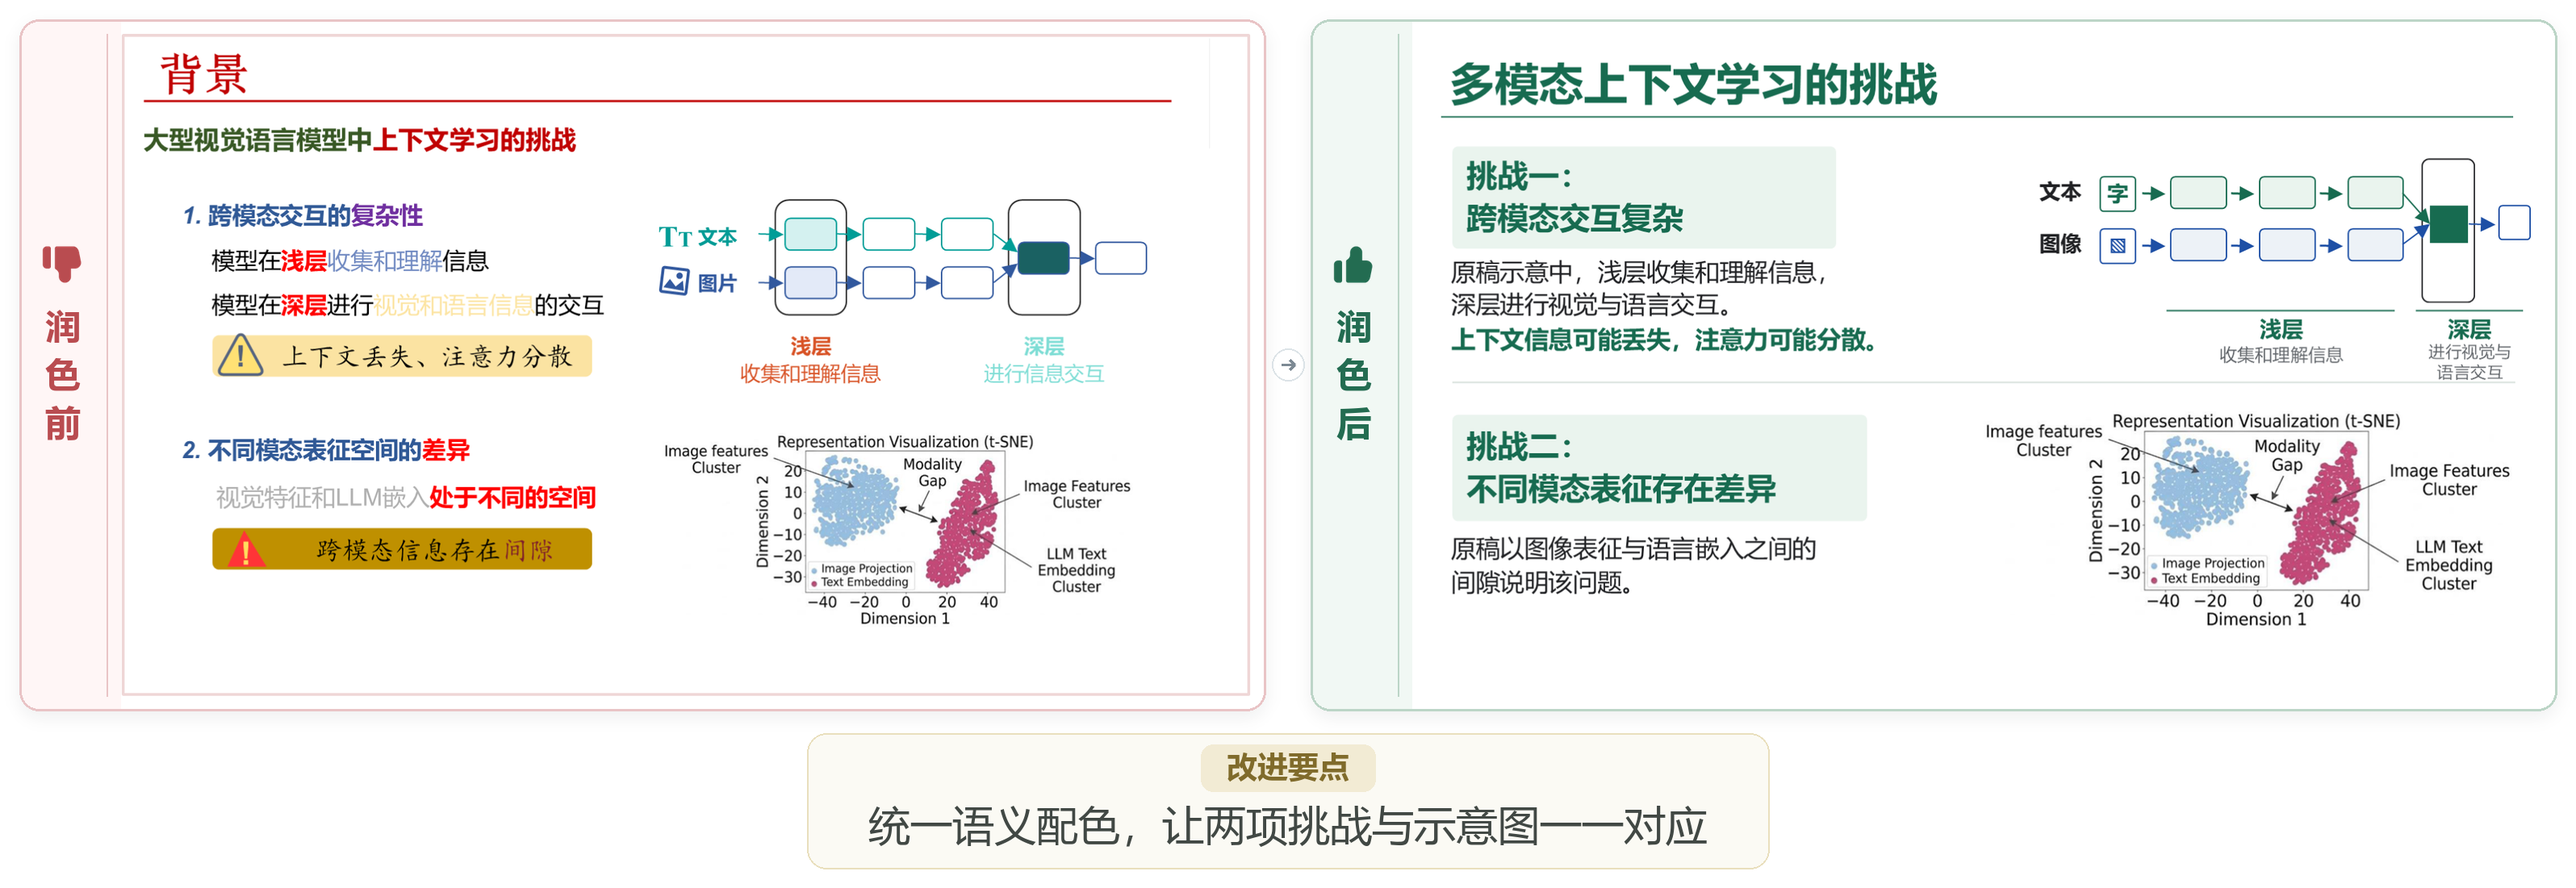
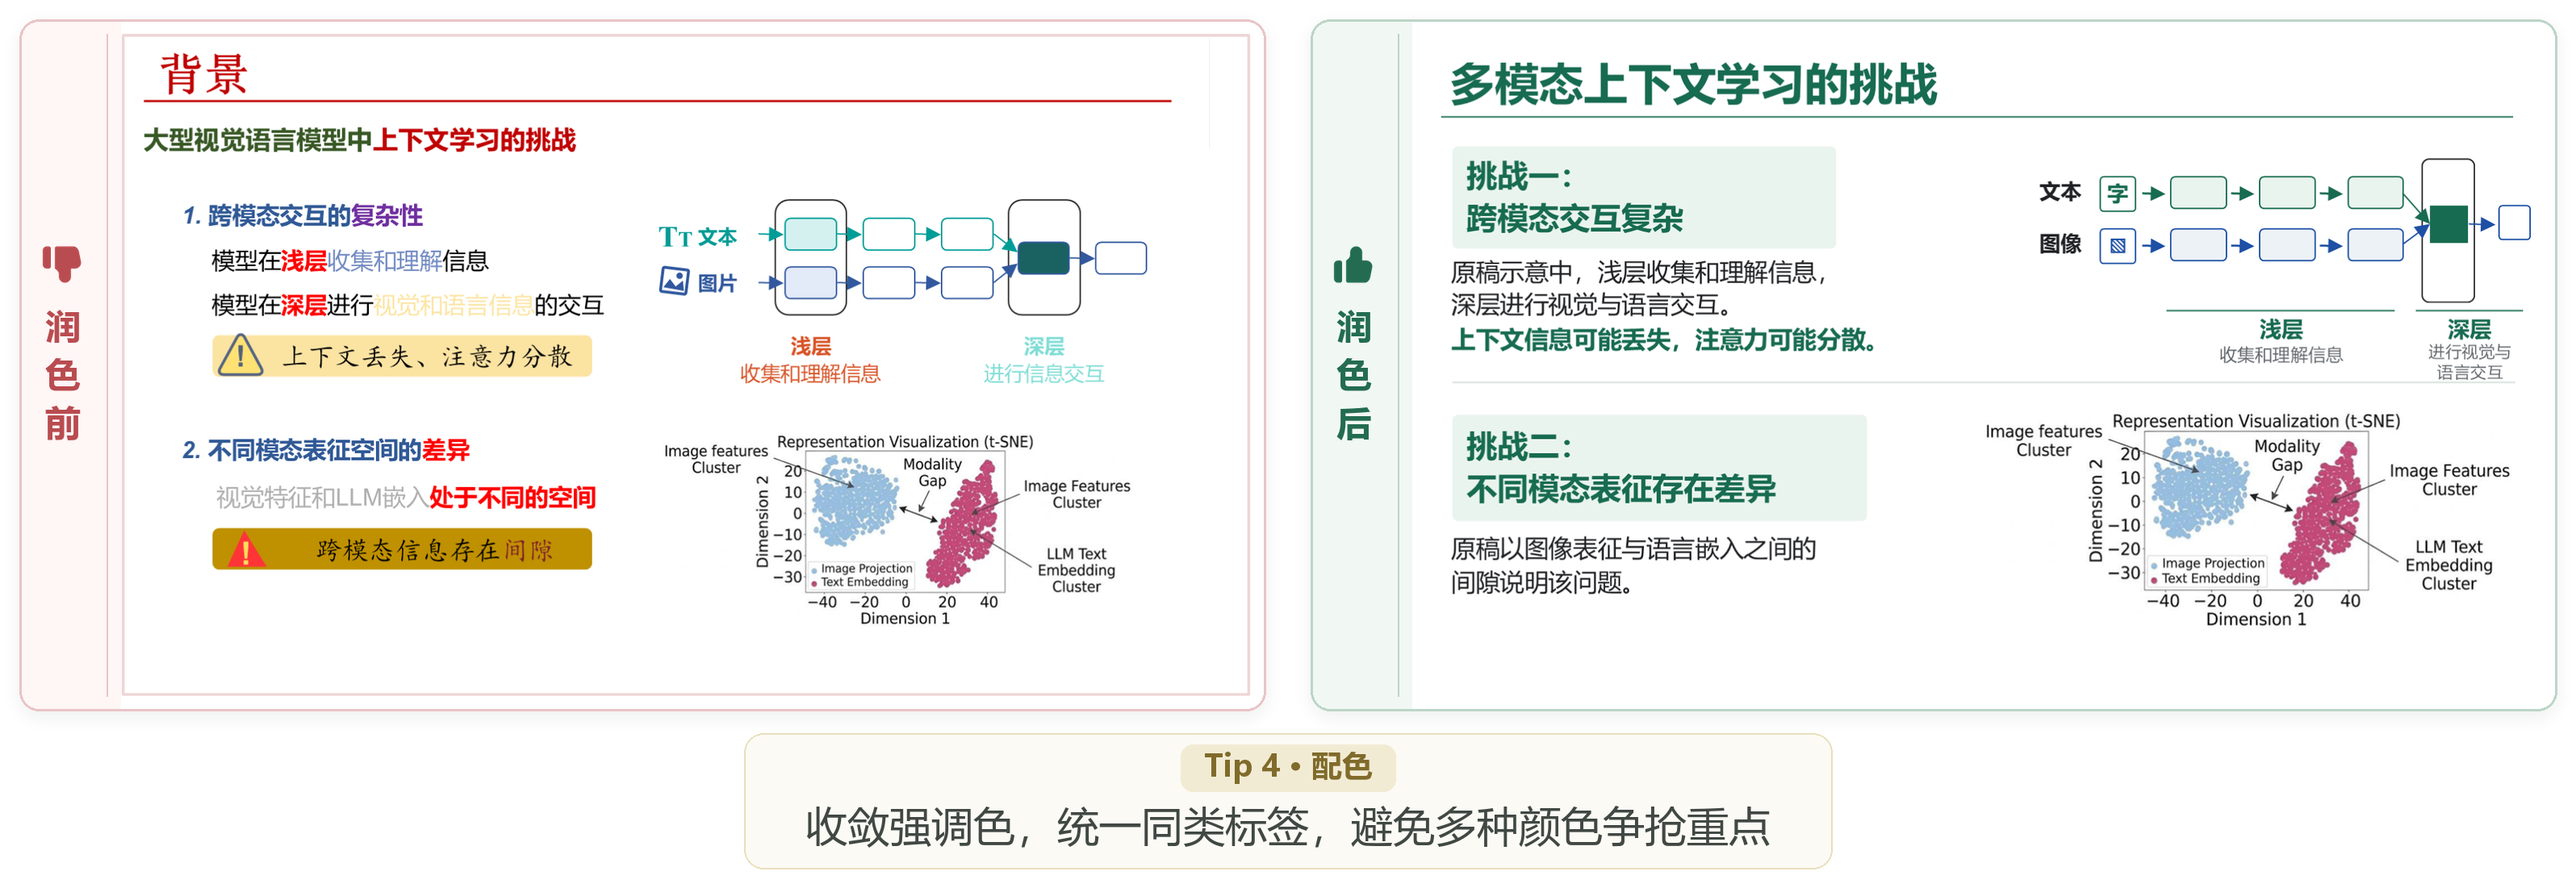
docs: align comparison captions with presentation tips

Changed region(s): [[0.3102, 0.8338, 0.6823, 0.9573]]

diff --git a/README.md b/README.md
@@ -464,22 +464,22 @@
 
 > Ppt Master 请检查并润色反例_v1.pptx。先根据 12 条汇报建议指出缺陷，供确认；再设计参考图，确认后制作组件可编辑的 PPTX。
 
-原稿 11 页，润色稿 20 页（含 5 页备份）。下图左侧为原稿，右侧为对应的润色页，均来自这两份 PPTX 的实际渲染；点击图片可放大。
+原稿 11 页，润色稿 20 页。下图左侧为原稿，右侧为对应的润色页。
 
 [![原第 1 页与润色后第 1 页：用输入输出案例组织任务定义](docs/images/fanli-01-before-after.png)](docs/images/fanli-01-before-after.png)
 
-[![原第 4 页与润色后第 7 页：整理多模态学习挑战与配色层级](docs/images/fanli-04-before-after.png)](docs/images/fanli-04-before-after.png)
+[![原第 4 页与润色后第 7 页：Tip 4，收敛强调色并统一同类标签](docs/images/fanli-04-before-after.png)](docs/images/fanli-04-before-after.png)
 
-[![原第 5 页与润色后第 6 页：用图文问答案例串起上下文学习](docs/images/fanli-05-before-after.png)](docs/images/fanli-05-before-after.png)
+[![原第 5 页与润色后第 6 页：Tip 5，对齐双栏图文并统一字号层级](docs/images/fanli-05-before-after.png)](docs/images/fanli-05-before-after.png)
 
-[![原第 10 页与润色后第 14 页：呈现准确率与相对长度的双指标比较](docs/images/fanli-10-before-after.png)](docs/images/fanli-10-before-after.png)
+[![原第 10 页与润色后第 14 页：Tip 10，用散点图替代密集实验表格](docs/images/fanli-10-before-after.png)](docs/images/fanli-10-before-after.png)
 
-| 原稿页 → 润色页 | 主要变化 |
+| 原稿页 → 润色页 | 对应问题与改进 |
 | --- | --- |
-| 1 → 1 | 将长段任务定义组织为两组输入→输出案例，突出任务差异。 |
-| 4 → 7 | 分组呈现两项挑战，统一同类组件的用色，建立文字与示意图的对应关系。 |
-| 5 → 6 | 用已知示例与新查询说明上下文学习，并前置于挑战页。 |
-| 10 → 14 | 按模型分面展示准确率与相对长度的关系，完整结果表保留在第 20 页。 |
+| 1 → 1 | **Tip 1 · 每页字数不要太多**：将长段定义精简为两组输入→输出案例，突出任务差异。 |
+| 4 → 7 | **Tip 4 · 颜色不要太多太乱**：收敛强调色，统一同类标签，避免多种颜色争抢重点。 |
+| 5 → 6 | **Tip 5 · 注意排版细节**：对齐双栏图文，统一标题与正文的字号层级，明确阅读顺序。 |
+| 10 → 14 | **Tip 10 · 实验部分多用图，少用表格**：用分模型的散点图替代密集结果表，直观比较准确率与相对长度。 |
 
 两份完整 PPTX 位于 [examples/](examples/)。成品包含原生文字、形状、表格和数据图表；照片与复杂原图保留为独立图片。
 
